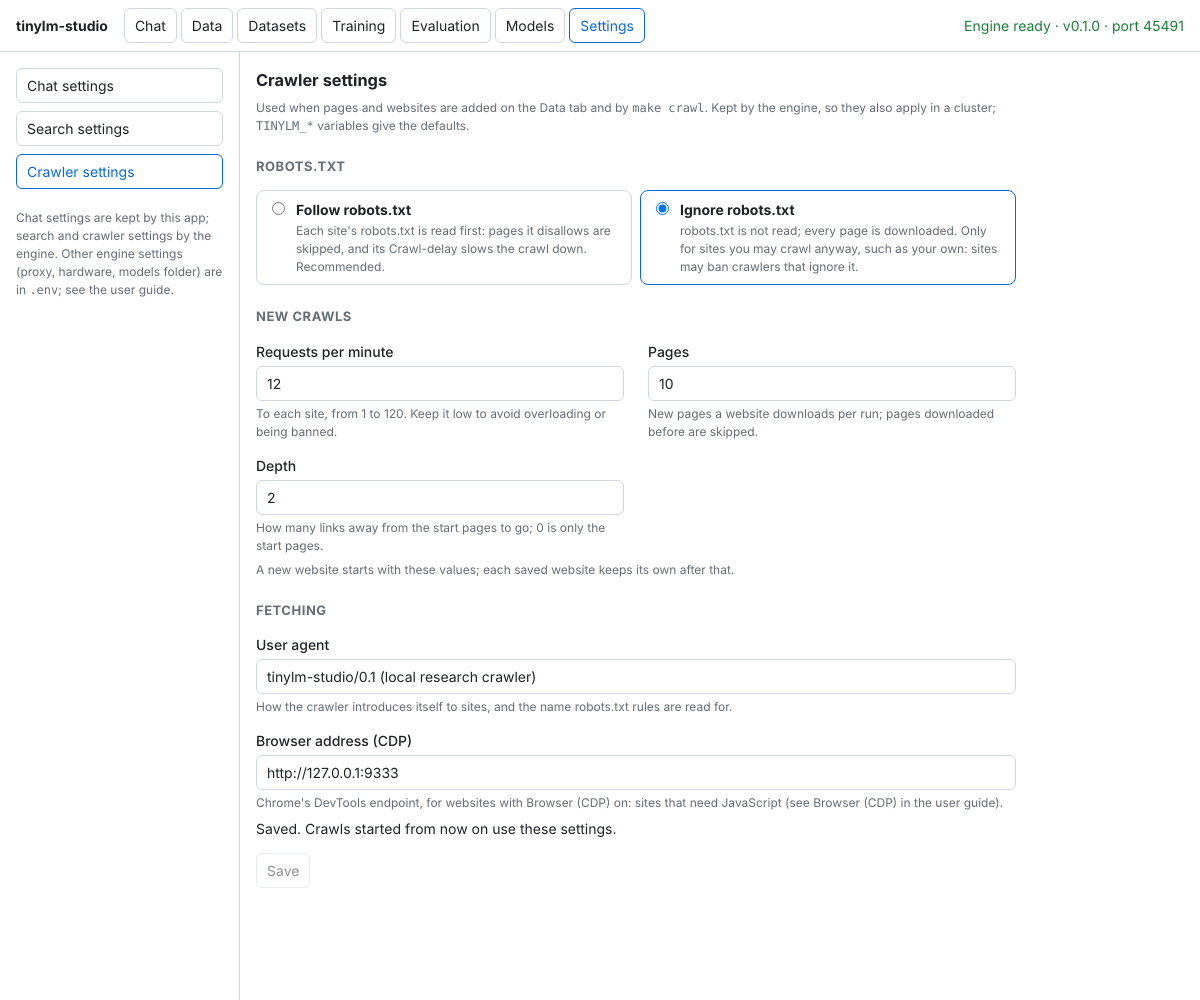
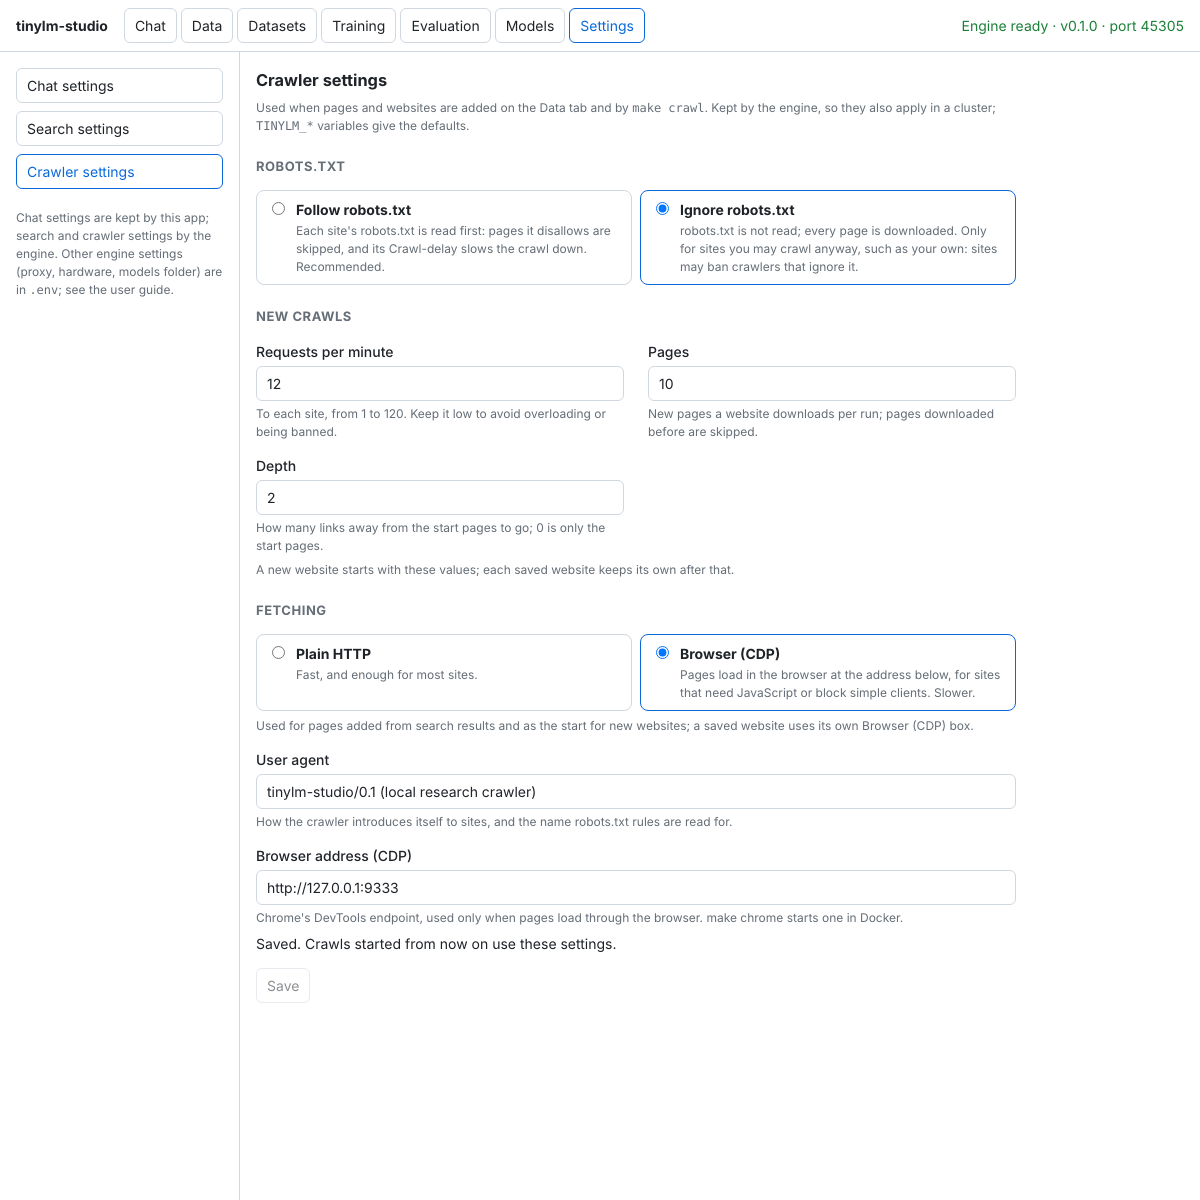
Load pages through the browser by default when chosen in Crawler settings
Only websites with Browser (CDP) ticked used the browser, and pages added
from search results never did, so setting the browser address alone sent
nothing to it. Crawler settings now has Fetching: plain HTTP or Browser
(CDP), the default for pages added from search and for new websites
(TINYLM_CRAWL_USE_BROWSER). A crawl through the browser says so in its log.

Claude-Session: https://claude.ai/code/session_01K6iyxnxtYDs5kNr5qmfTjK

diff --git a/desktop/src/renderer/CrawlerSettings.tsx b/desktop/src/renderer/CrawlerSettings.tsx
@@ -9,6 +9,7 @@ const draftOf = (s: CrawlerSettings): Draft => ({
   per_minute: String(s.per_minute),
   max_pages: String(s.max_pages),
   max_depth: String(s.max_depth),
+  use_browser: s.use_browser,
   user_agent: s.user_agent,
   cdp_url: s.cdp_url,
 });
@@ -65,6 +66,7 @@ export function CrawlerSettingsForm({
         per_minute: Number(draft!.per_minute),
         max_pages: Number(draft!.max_pages),
         max_depth: Number(draft!.max_depth),
+        use_browser: draft!.use_browser as boolean,
         user_agent: String(draft!.user_agent),
         cdp_url: String(draft!.cdp_url),
       };
@@ -171,6 +173,39 @@ export function CrawlerSettingsForm({
       </p>
 
       <h4>Fetching</h4>
+      <div className="provider-list">
+        <label className={`provider ${draft.use_browser ? "" : "active"}`}>
+          <input
+            type="radio"
+            name="fetch"
+            checked={!draft.use_browser}
+            onChange={() => set({ use_browser: false })}
+          />
+          <span>
+            <strong>Plain HTTP</strong>
+            <small className="muted">Fast, and enough for most sites.</small>
+          </span>
+        </label>
+        <label className={`provider ${draft.use_browser ? "active" : ""}`}>
+          <input
+            type="radio"
+            name="fetch"
+            checked={!!draft.use_browser}
+            onChange={() => set({ use_browser: true })}
+          />
+          <span>
+            <strong>Browser (CDP)</strong>
+            <small className="muted">
+              Pages load in the browser at the address below, for sites that
+              need JavaScript or block simple clients. Slower.
+            </small>
+          </span>
+        </label>
+      </div>
+      <p className="muted">
+        Used for pages added from search results and as the start for new
+        websites; a saved website uses its own Browser (CDP) box.
+      </p>
       <Field
         label="User agent"
         hint="How the crawler introduces itself to sites, and the name robots.txt rules are read for."
@@ -179,7 +214,7 @@ export function CrawlerSettingsForm({
       </Field>
       <Field
         label="Browser address (CDP)"
-        hint="Chrome's DevTools endpoint, for websites with Browser (CDP) on: sites that need JavaScript. make chrome starts one in Docker."
+        hint="Chrome's DevTools endpoint, used only when pages load through the browser. make chrome starts one in Docker."
       >
         {text("cdp_url")}
       </Field>

diff --git a/desktop/src/renderer/Search.tsx b/desktop/src/renderer/Search.tsx
@@ -94,7 +94,7 @@ export function Search({
     try {
       const urls = chosen.map((r) => r.url);
       // Only these pages: depth 0, and a page budget that covers all of them.
-      setJob(await client.startCrawl(collection, { urls, max_pages: urls.length, max_depth: 0, use_browser: false }));
+      setJob(await client.startCrawl(collection, { urls, max_pages: urls.length, max_depth: 0 }));
     } catch (e) {
       report(e);
     }
@@ -106,7 +106,7 @@ export function Search({
       const bySite = new Map<string, string[]>();
       for (const r of chosen) bySite.set(r.site, [...(bySite.get(r.site) ?? []), r.url]);
       for (const [site, urls] of bySite) {
-        await client.addWebsite(collection, { name: site, urls, use_browser: false });
+        await client.addWebsite(collection, { name: site, urls });
       }
       onSaved();
       setMessage(`Saved ${bySite.size} website${bySite.size === 1 ? "" : "s"}: crawl ${bySite.size === 1 ? "it" : "them"} from the list below.`);

diff --git a/desktop/src/renderer/Websites.tsx b/desktop/src/renderer/Websites.tsx
@@ -96,7 +96,13 @@ export function Websites({
             use_browser: website.use_browser,
           }
         : defaults
-          ? { ...NEW_SITE, max_pages: defaults.max_pages, max_depth: defaults.max_depth, per_minute: defaults.per_minute }
+          ? {
+              ...NEW_SITE,
+              max_pages: defaults.max_pages,
+              max_depth: defaults.max_depth,
+              per_minute: defaults.per_minute,
+              use_browser: defaults.use_browser,
+            }
           : NEW_SITE,
     );
   }

diff --git a/desktop/src/renderer/api.ts b/desktop/src/renderer/api.ts
@@ -54,6 +54,7 @@ export type CrawlerSettings = {
   per_minute: number;
   max_pages: number;
   max_depth: number;
+  use_browser: boolean;
   user_agent: string;
   cdp_url: string;
 };

diff --git a/engine/src/engine/__main__.py b/engine/src/engine/__main__.py
@@ -128,7 +128,7 @@ def crawl(settings: Settings, args: argparse.Namespace) -> None:
         max_pages=args.max_pages or defaults.max_pages,
         max_depth=defaults.max_depth if args.max_depth is None else args.max_depth,
         per_minute=args.per_minute or defaults.per_minute,
-        use_browser=args.browser,
+        use_browser=defaults.use_browser if args.browser is None else args.browser,
         respect_robots=not args.ignore_robots,
     )
     run_crawl(settings, args.collection, options)
@@ -247,7 +247,11 @@ def main() -> None:
     p.add_argument("--max-pages", type=int, help="new pages to download (earlier ones are skipped)")
     p.add_argument("--max-depth", type=int, help="link hops from a start address")
     p.add_argument("--per-minute", type=float, help="requests per minute to each site")
-    p.add_argument("--browser", action="store_true", help="fetch through the browser at CDP_URL")
+    p.add_argument(
+        "--browser",
+        action=argparse.BooleanOptionalAction,
+        help="fetch through the browser at the CDP address (default: the crawler settings)",
+    )
     p.add_argument(
         "--ignore-robots", action="store_true", help="do not read robots.txt for this crawl"
     )

diff --git a/engine/src/engine/api/web.py b/engine/src/engine/api/web.py
@@ -23,7 +23,7 @@ class CrawlRequest(BaseModel):
     max_depth: int | None = Field(None, ge=0, le=100)
     # Requests per minute to each site.
     per_minute: float | None = Field(None, gt=0, le=120)
-    use_browser: bool = False
+    use_browser: bool | None = None
     respect_robots: bool = True
 
     @field_validator("urls")
@@ -58,7 +58,7 @@ def with_defaults(body: CrawlRequest, request: Request) -> dict:
     """The request's crawl options, with the crawler settings for those left out."""
     defaults = crawl_settings(request).get()
     fields = body.model_dump(exclude={"name"})
-    for name in ("max_pages", "max_depth", "per_minute"):
+    for name in ("max_pages", "max_depth", "per_minute", "use_browser"):
         if fields[name] is None:
             fields[name] = getattr(defaults, name)
     return fields
@@ -188,6 +188,7 @@ class CrawlSettingsChanges(BaseModel, extra="forbid"):
     per_minute: float | None = None
     max_pages: int | None = None
     max_depth: int | None = None
+    use_browser: bool | None = None
     user_agent: str | None = None
     cdp_url: str | None = None
 

diff --git a/engine/tests/test_web.py b/engine/tests/test_web.py
@@ -388,6 +388,14 @@ def test_crawl_settings_api(client, settings, site):
     assert wait_for(client, job.json()["id"])["indexed"] == 1
     assert "/robots.txt" not in Site.requests
 
+    # Browser (CDP) in the settings: pages added without use_browser load through it.
+    client.put("/api/crawl/settings", json={"use_browser": True, "cdp_url": "http://127.0.0.1:9"})
+    job = client.post("/api/collections/games/crawl", json={"urls": [f"{site}/b"]}).json()
+    assert job["options"]["use_browser"] is True
+    done = wait_for(client, job["id"])
+    assert "loading pages in the browser at http://127.0.0.1:9" in done["log"]
+    assert done["failed"] == 1 and "Cannot reach the browser" in done["log"][-1]
+
 
 def test_outcome_of_each_start_address(games, site):
     crawl(games, [f"{site}/a"], max_depth=0)

diff --git a/engine/src/engine/web/crawl_settings.py b/engine/src/engine/web/crawl_settings.py
@@ -21,6 +21,8 @@ class CrawlSettings(BaseModel):
     # Defaults for new websites and crawls.
     max_pages: int = Field(50, ge=1, le=100000)
     max_depth: int = Field(2, ge=0, le=100)
+    # Load pages in the browser at cdp_url, for new websites and pages added from search.
+    use_browser: bool = False
     user_agent: str = Field(min_length=1, max_length=300)
     cdp_url: str
 
@@ -43,6 +45,7 @@ def env_defaults(settings: Settings) -> dict:
         "per_minute": settings.crawl_per_minute,
         "max_pages": settings.crawl_max_pages,
         "max_depth": settings.crawl_max_depth,
+        "use_browser": settings.crawl_use_browser,
         "user_agent": settings.user_agent,
         "cdp_url": settings.cdp_url,
     }

diff --git a/engine/src/engine/config.py b/engine/src/engine/config.py
@@ -51,6 +51,8 @@ class Settings(BaseSettings):
     # New pages per crawl and link hops from a start address, for new websites and crawls.
     crawl_max_pages: int = 50
     crawl_max_depth: int = 2
+    # Load pages in the browser at cdp_url by default (for sites that need JavaScript).
+    crawl_use_browser: bool = False
     user_agent: str = DEFAULT_USER_AGENT
     # Web search for finding pages and videos: a self-hosted SearXNG (free, no key), or Brave,
     # Tavily, Exa, Perplexity or Serper (each needs its API key; see engine.web.search).

diff --git a/engine/src/engine/web/crawler.py b/engine/src/engine/web/crawler.py
@@ -144,6 +144,8 @@ class Crawler:
         current = self.settings()
         http = HttpFetcher(self.proxy, current.user_agent)
         browser = CdpFetcher(current.cdp_url) if options.use_browser else None
+        if browser:
+            job.note(f"loading pages in the browser at {current.cdp_url}")
         respect_robots = options.respect_robots and current.respect_robots
         if options.respect_robots and not respect_robots:
             job.note("robots.txt is ignored (Settings > Crawler)")

diff --git a/docs/api.md b/docs/api.md
@@ -203,8 +203,9 @@ or the Data tab) adds pages of websites to a collection in the background:
   text are remembered too: new links that later appear on them are not seen.
 - **Saved websites** keep the addresses and settings of a crawl so it can be run again, edited
   or deleted (deleting a saved website keeps the pages already added).
-- **Defaults:** `max_pages`, `max_depth` and `per_minute` left out of a crawl or a new website
-  come from the crawler settings (`GET /api/crawl/settings`; 50, 2 and 20 unless changed).
+- **Defaults:** `max_pages`, `max_depth`, `per_minute` and `use_browser` left out of a crawl or
+  a new website come from the crawler settings (`GET /api/crawl/settings`; 50, 2, 20 and
+  `false` unless changed). A crawl through the browser says so in its `log`.
 - **Politeness:** at most `per_minute` requests to each site (with random jitter), robots.txt
   rules and `Crawl-delay` are followed, and an HTTP 429/503 answer pauses that site for its
   `Retry-After` time (60 s by default) before the page is retried. robots.txt is read only when
@@ -232,7 +233,7 @@ or the Data tab) adds pages of websites to a collection in the background:
 | GET | `/api/crawls` | All crawls since the engine started |
 | GET | `/api/crawls/{id}` | Progress: `state`, `website_id`, `fetched` (new pages), `known` (downloaded before), `indexed`, `duplicates`, `skipped`, `failed`, `current`, `log`, and `outcomes`: per start address `added`, `duplicate`, `known`, `skipped` or `failed` (missing: not reached) |
 | POST | `/api/crawls/{id}/cancel` | Stops a crawl after the current page |
-| GET | `/api/crawl/settings` | `respect_robots`, `per_minute`, `max_pages`, `max_depth`, `user_agent`, `cdp_url` |
+| GET | `/api/crawl/settings` | `respect_robots`, `per_minute`, `max_pages`, `max_depth`, `use_browser`, `user_agent`, `cdp_url` |
 | PUT | `/api/crawl/settings` | Any of those fields; fields left out keep their value. Saved in `workspace/crawl-settings.json`, wins over the `TINYLM_*` variables and applies to crawls started afterwards; 422 names a wrong value |
 
 ## Web search
@@ -455,6 +456,7 @@ POST /api/evaluations
 | `TINYLM_CRAWL_PER_MINUTE` | `20` | Default requests per minute to each site |
 | `TINYLM_CRAWL_RESPECT_ROBOTS` | `true` | `false`: robots.txt is not read for any crawl |
 | `TINYLM_CRAWL_MAX_PAGES` / `TINYLM_CRAWL_MAX_DEPTH` | `50` / `2` | Defaults for new crawls and websites |
+| `TINYLM_CRAWL_USE_BROWSER` | `false` | `true`: new crawls and websites load pages in the browser at `TINYLM_CDP_URL` |
 | `TINYLM_USER_AGENT` | `tinylm-studio/0.1 (local research crawler)` | User-Agent of plain HTTP requests |
 | `TINYLM_SEARCH_PROVIDER` | `searxng` | Web search: `searxng`, `brave`, `tavily`, `exa`, `perplexity` or `serper`. This and the search variables below are defaults; the saved search settings win |
 | `TINYLM_SEARXNG_URL` | `http://127.0.0.1:8888` | SearXNG address (`make searxng` starts one) |

diff --git a/docs/user-guide.md b/docs/user-guide.md
@@ -408,10 +408,11 @@ variables in the table only give the defaults. Changes apply to crawls started a
 | Requests per minute | 20 (`TINYLM_CRAWL_PER_MINUTE`) | To each site, 1 to 120, for new websites and for pages added from search results. |
 | Pages | 50 (`TINYLM_CRAWL_MAX_PAGES`) | New pages a new website downloads per run. |
 | Depth | 2 (`TINYLM_CRAWL_MAX_DEPTH`) | Link hops from the start addresses for a new website. |
+| Fetching | Plain HTTP (`TINYLM_CRAWL_USE_BROWSER`) | **Browser (CDP)**: pages added from search results, and new websites, load in the browser at **Browser address**. A saved website uses its own **Browser (CDP)** box. Setting only the address changes nothing: pages go through the browser only when this or the website's box says so. |
 | User agent | `tinylm-studio/0.1 (local research crawler)` (`TINYLM_USER_AGENT`) | How the crawler introduces itself; robots.txt rules are read for this name. |
 | Browser address (CDP) | `http://127.0.0.1:9222` (`TINYLM_CDP_URL`) | Where the browser for [Browser (CDP)](#browser-cdp) websites listens. |
 
-Pages, depth and requests per minute are only where a new website starts: each saved website
+Pages, depth, requests per minute and fetching are only where a new website starts: each saved website
 keeps its own values, changed in its form on the Data tab.
 
 ### Engine settings (.env)
@@ -437,7 +438,9 @@ SearXNG has its own outgoing proxy setting (`outgoing.proxies` in its `settings.
 ### Browser (CDP)
 
 Some sites build their pages with JavaScript or refuse simple HTTP clients. Tick
-**Browser (CDP)** on a website (or pass `--browser` to `python -m engine crawl`) to load its pages in a real
+**Browser (CDP)** on a website, choose **Browser (CDP)** under Fetching in
+[Crawler settings](#crawler-settings) for pages added from search, or pass `--browser` to
+`python -m engine crawl`, to load pages in a real
 browser that the engine controls over the Chrome DevTools Protocol.
 
 The quickest is a headless Chrome in Docker or Podman:
